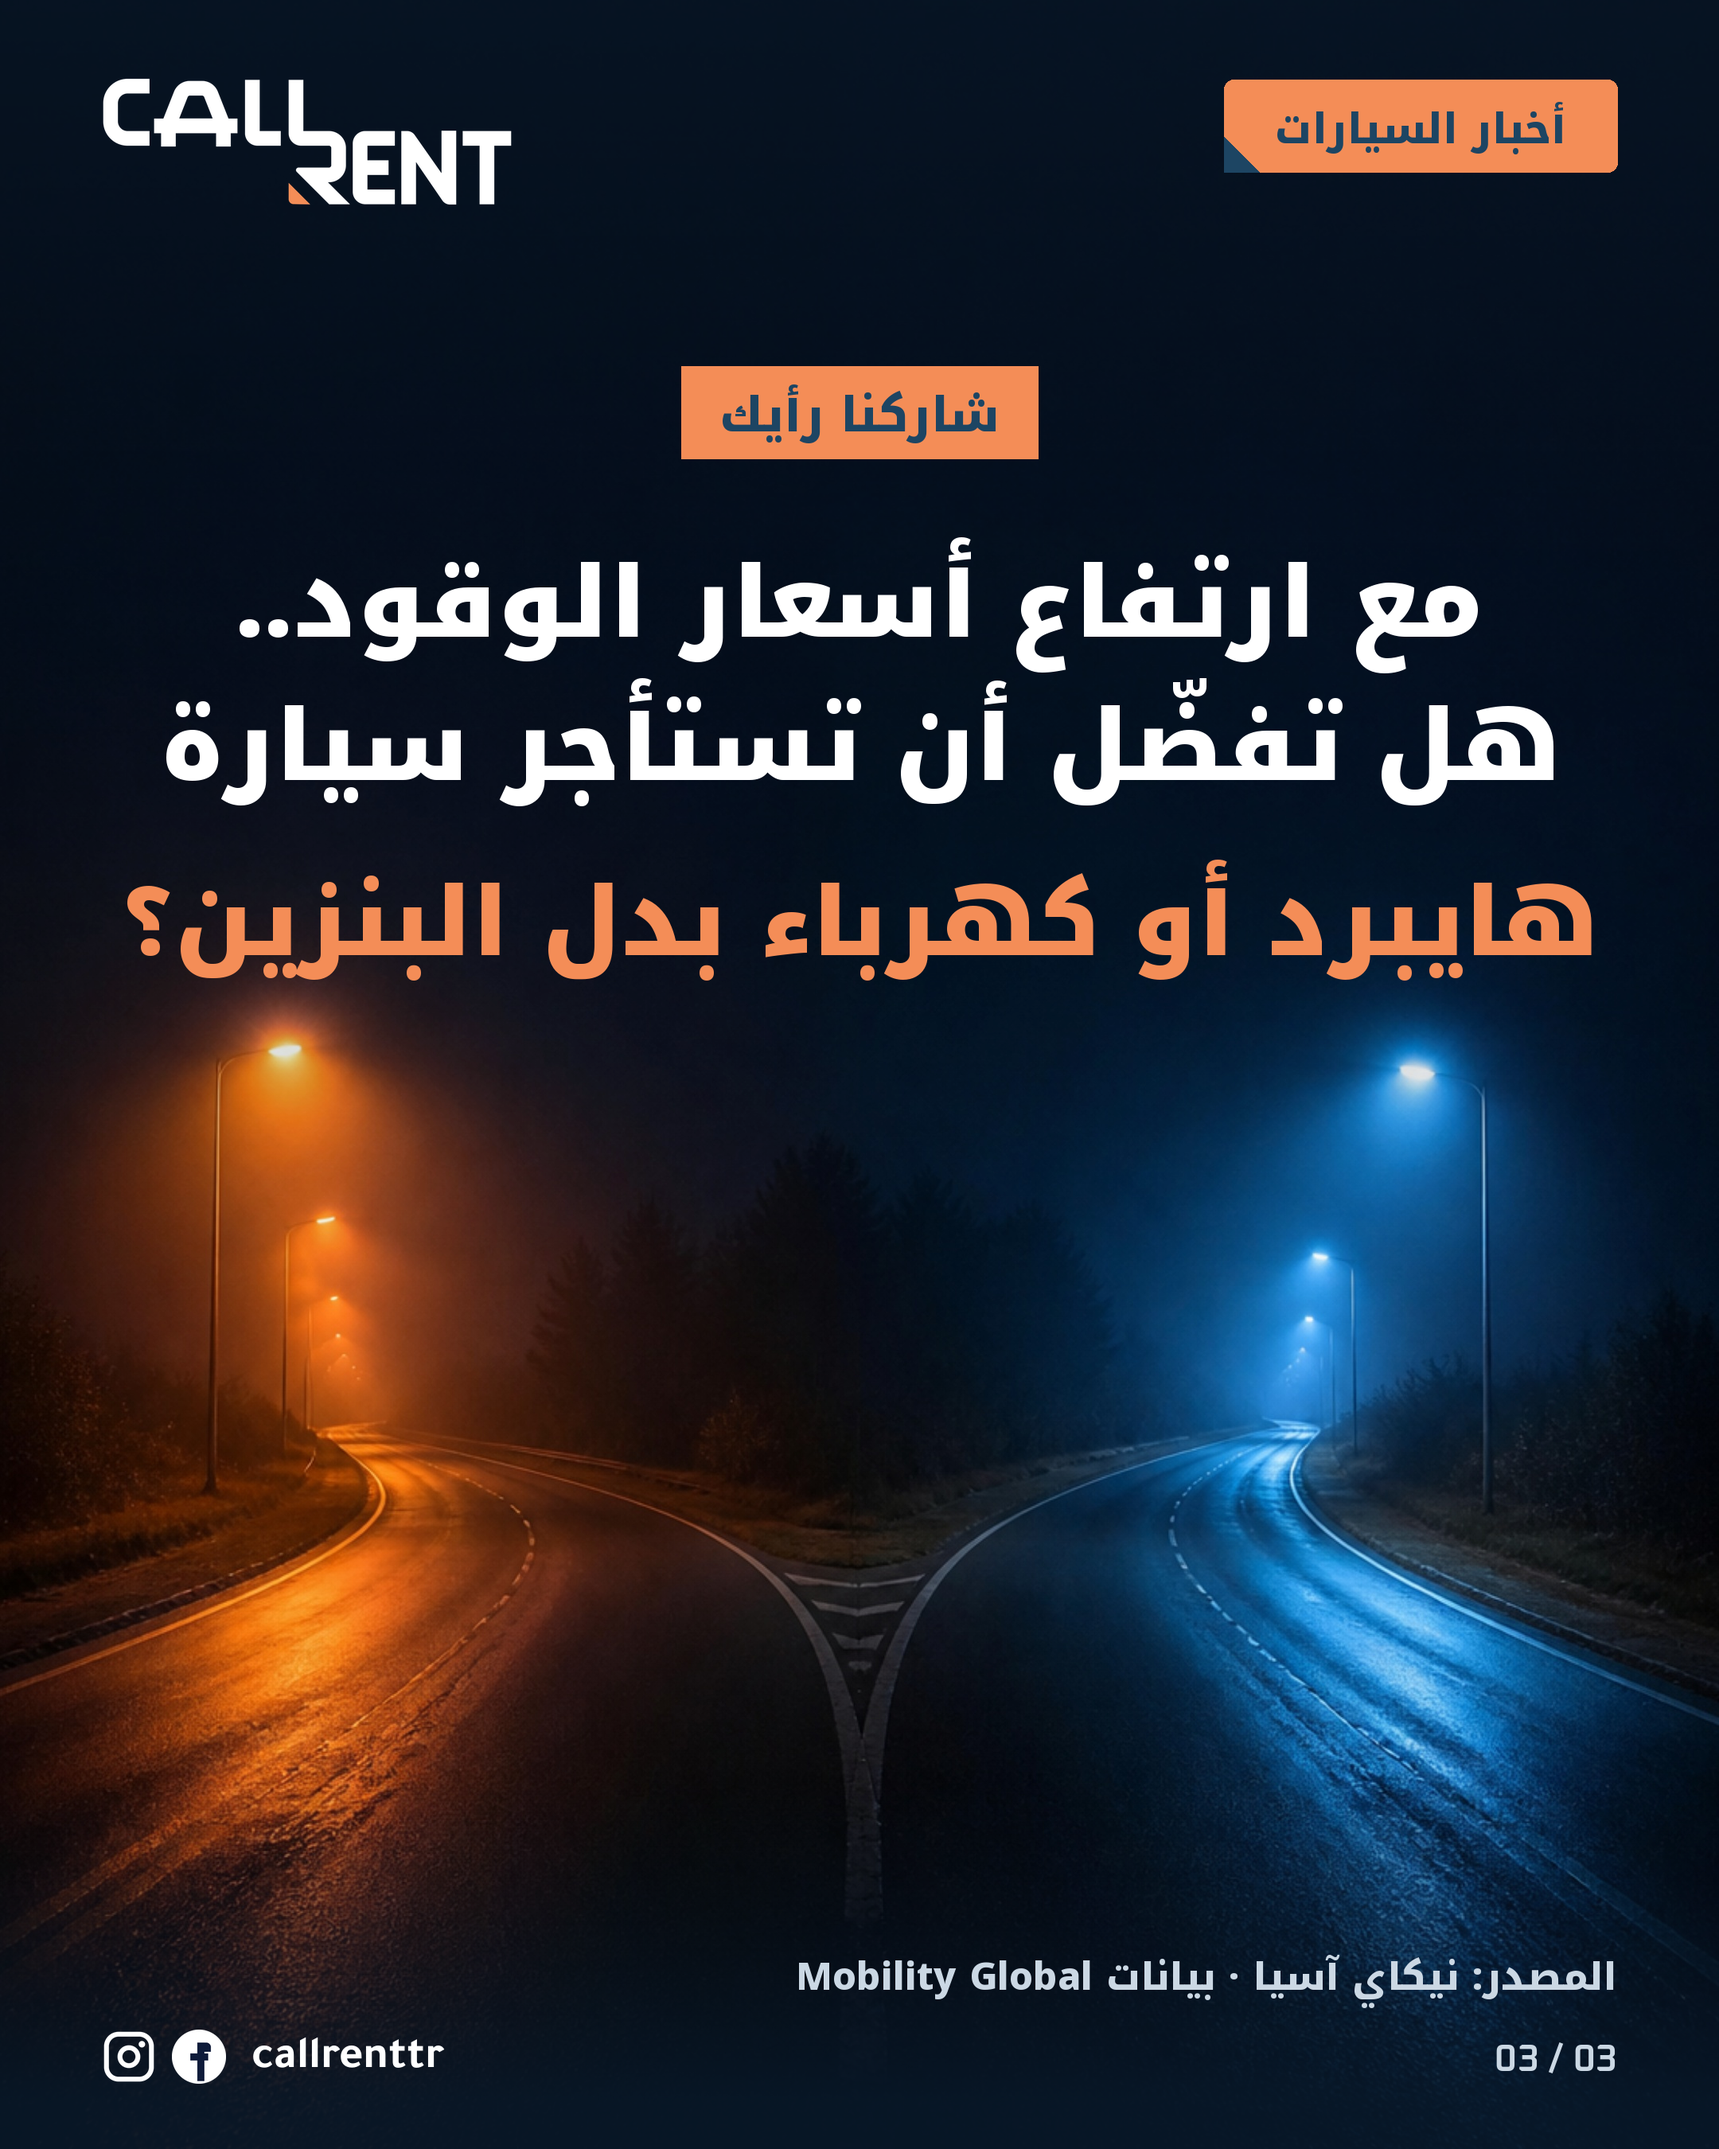
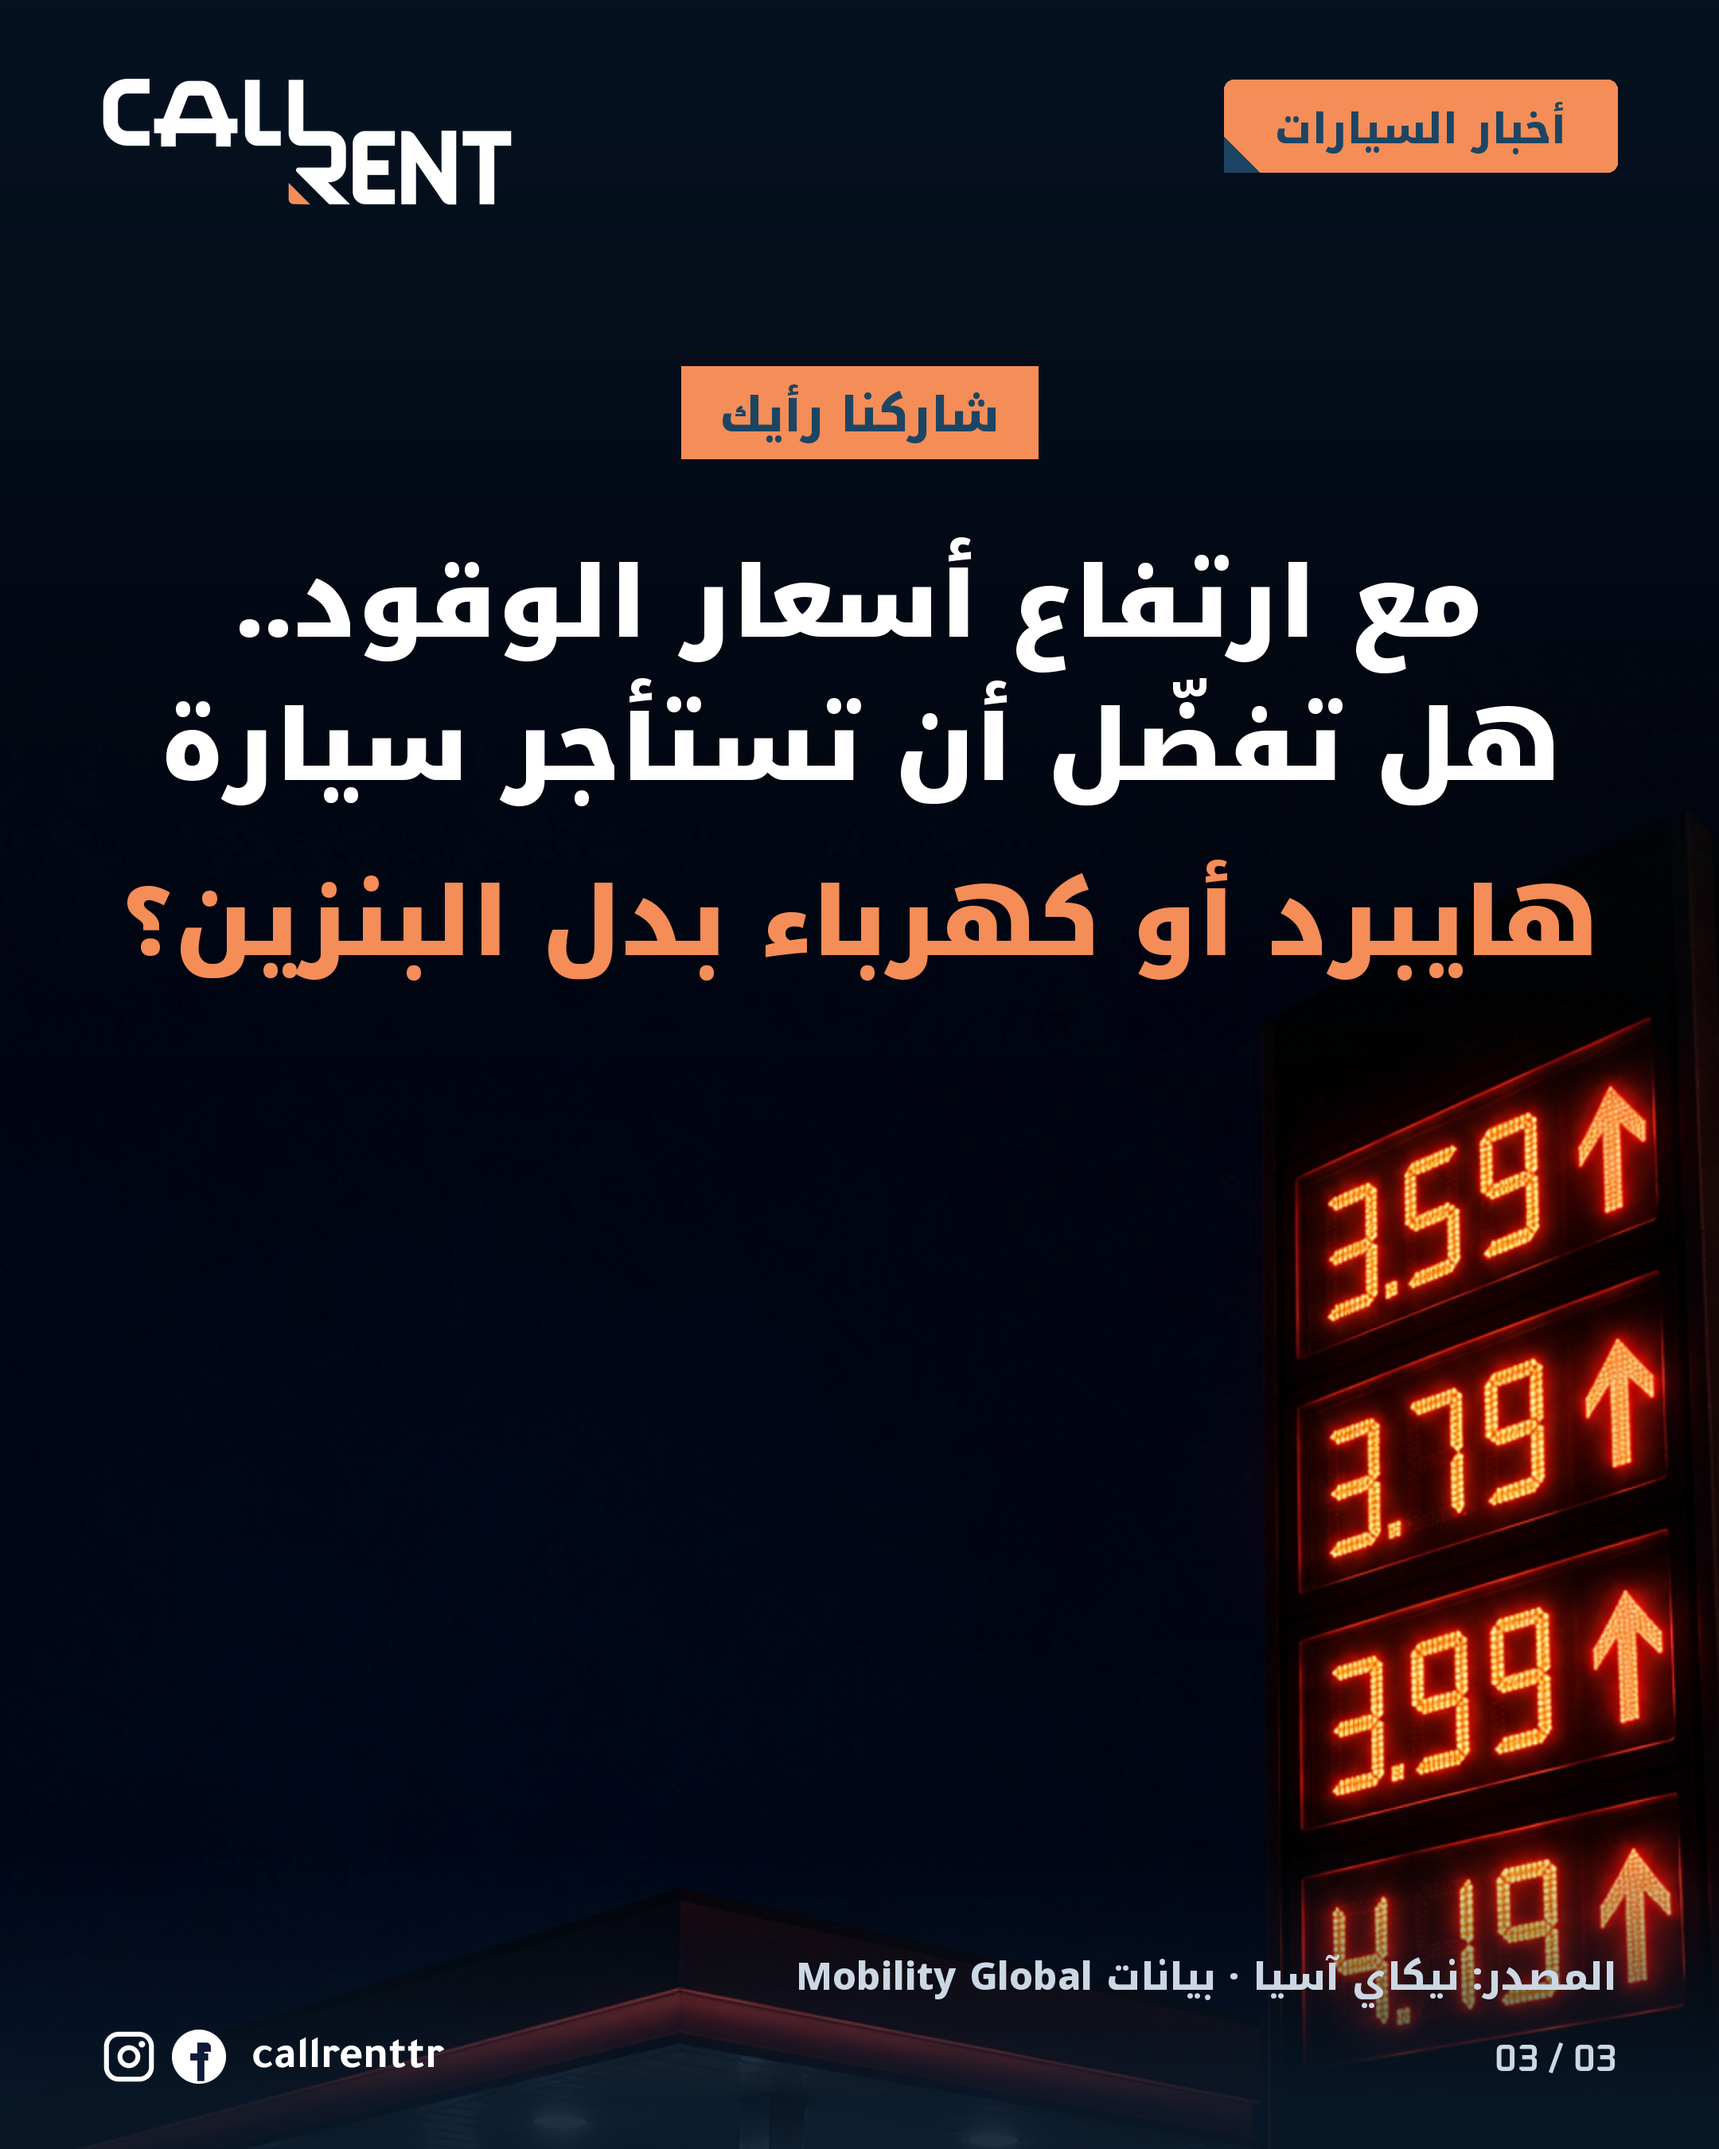
News: gasoline-share slide 3 on a rising fuel-price board background
Claude-Session: https://claude.ai/code/session_01JWxxZZBXcuDznNNTjM86b7

diff --git a/marketing/news/fuel_share.py b/marketing/news/fuel_share.py
@@ -126,9 +126,11 @@ def data(out):
 
 
 def ask(out):
-    cv = Image.open(os.path.join(HERE, 'fuel-share-ask.jpg')).convert('RGBA').resize((W, H), Image.LANCZOS)
+    # station photo dropped down so the question sits in its night sky and the rising price board shows below
+    ph = Image.open(os.path.join(HERE, 'fuel-share-ask.jpg')).convert('RGBA').resize((W, H), Image.LANCZOS)
+    cv = Image.new('RGBA', (W, H), ph.getpixel((W//2, S(20)))); cv.paste(ph, (0, S(400)))
     ys = np.arange(H, dtype=np.float32)
-    for a_ in (np.clip(1 - ys/S(820), 0, 1)**1.1*0.80, np.clip((ys - S(1120))/S(200), 0, 1)*0.9):
+    for a_ in (np.clip(1 - ys/S(700), 0, 1)**1.1*0.70, np.clip((ys - S(1160))/S(160), 0, 1)*0.9):
         lay = Image.new('RGBA', (W, H), DEEP+(0,)); lay.putalpha(Image.fromarray((np.repeat(a_[:, None], W, 1)*255).astype(np.uint8)))
         cv.alpha_composite(lay)
     d = ImageDraw.Draw(cv); cx = W/2
